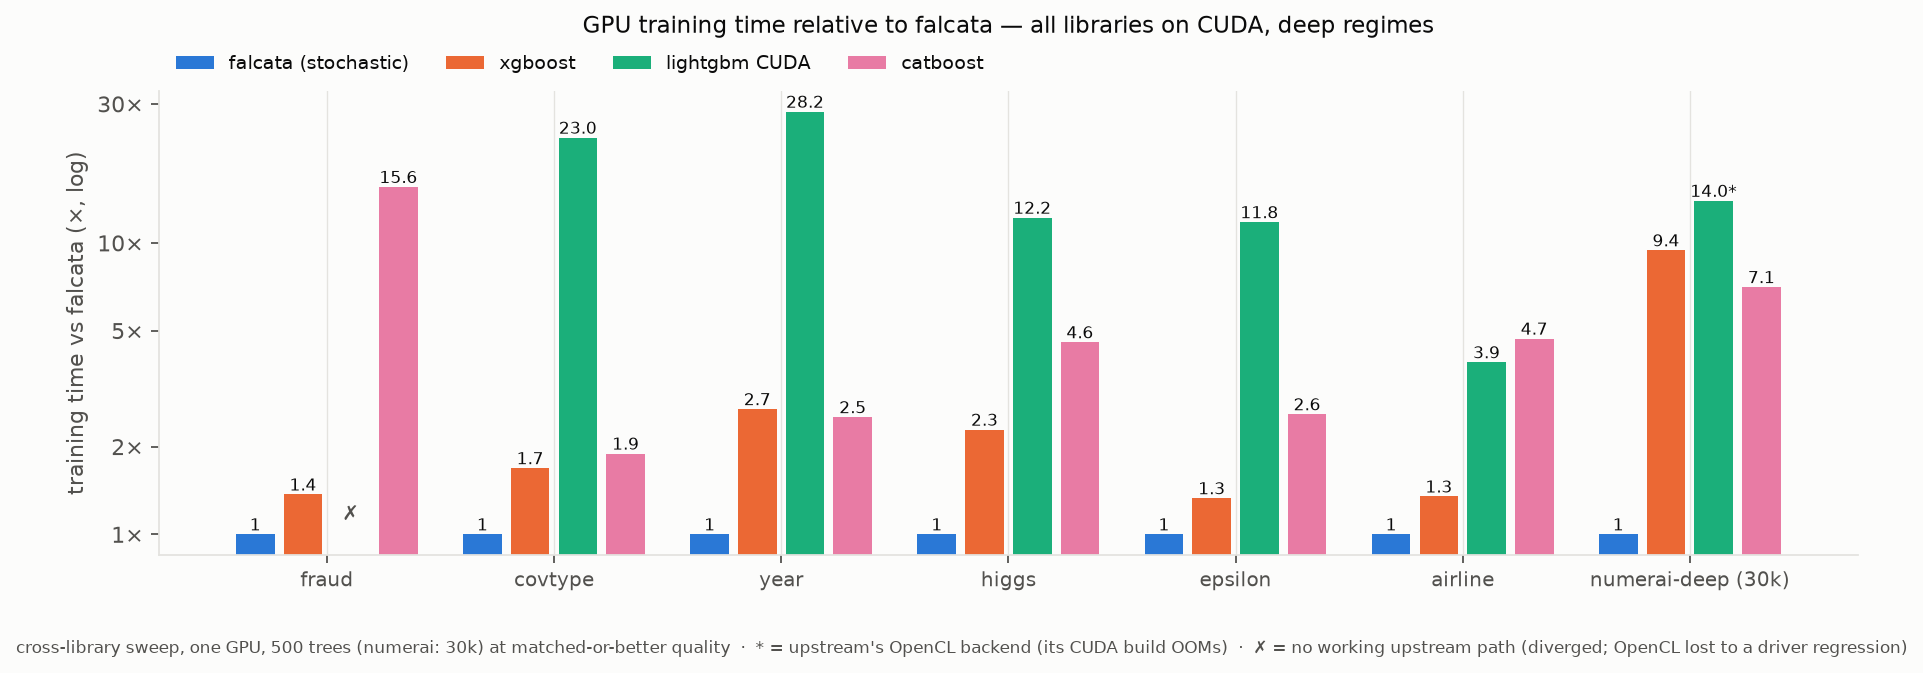
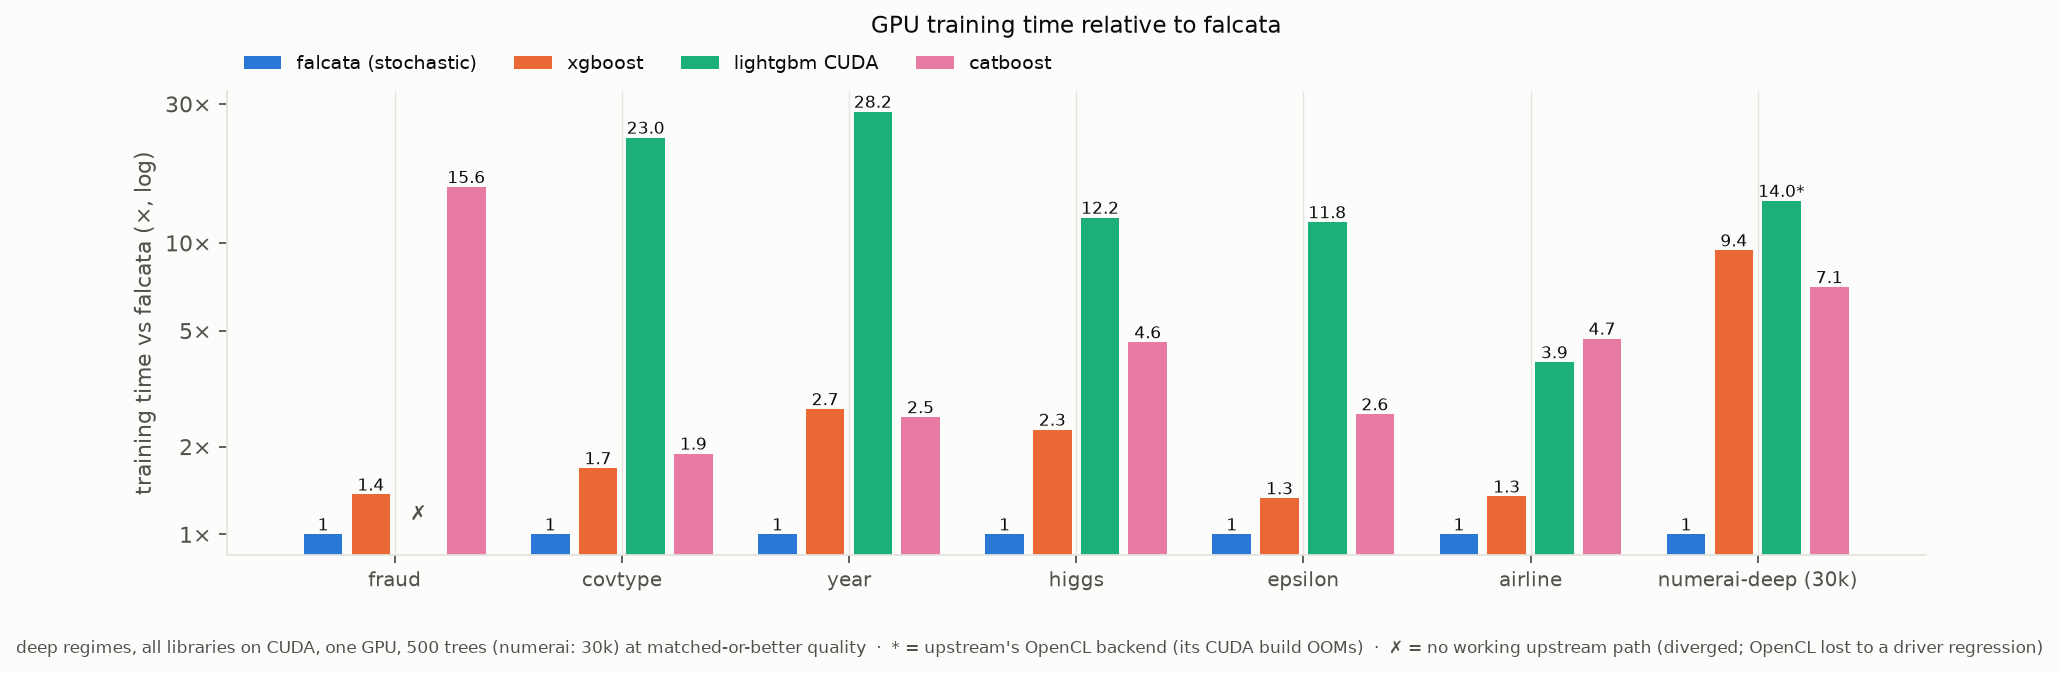
docs: plot titles name the plot, details move below it
Titles were carrying methodology, dataset shapes, footnote keys and reading
instructions, so each chart opened with a sentence instead of a name. Every
title is now the short thing the plot is; the qualifiers moved to a caption
line under the axes, where they were already the convention for a few plots.

  GPU training time relative to falcata — all libraries on CUDA, deep regimes
    -> GPU training time relative to falcata
  Throughput cost of turning the feature OFF (leave-one-out ablation) — larger = feature worth more
    -> What each hybrid-growth feature is worth
  Ingestion of the numerai matrix (6.8M rows × 3555 features, ~96 GB float32)
    -> Ingestion of the numerai matrix
  Peak GPU memory, deep regimes · * = upstream's OpenCL backend (its CUDA build OOMs)
    -> Peak GPU memory
  Time-to-quality (eval every 25 iters; cross-library sweep)
    -> Time-to-quality
  Selective grow-then-prune: level batching when the leaf budget binds
    -> Selective grow-then-prune
  quant_mode effect, measured on the cross-library sweep (deep regimes)
    -> Quantization modes  (subplots: Speed / Quality (+ is better))
  "<feature>: throughput cost of turning it OFF" -> "<feature>"

The gpu-memory caption is not just relocated: dropping it from the title would
have left the `*` on the numerai bar with nothing explaining it.

diff --git a/docs/perf-plots/generate.py b/docs/perf-plots/generate.py
@@ -255,17 +255,14 @@ def plot_cross_library():
     ax.minorticks_off()
     ax.set_xticks(list(x), [DS_LABEL.get(dr, dr[0]) for dr in DS_REGS], fontsize=9)
     ax.set_ylabel("training time vs falcata (×, log)")
-    ax.set_title(
-        "GPU training time relative to falcata — all libraries on CUDA, deep regimes",
-        fontsize=10.5,
-        pad=26,
-    )
+    ax.set_title("GPU training time relative to falcata", fontsize=10.5, pad=26)
     fig.text(
         0.5,
         -0.04,
-        "cross-library sweep, one GPU, 500 trees (numerai: 30k) at matched-or-better "
-        "quality  ·  * = upstream's OpenCL backend (its CUDA build OOMs)  ·  "
-        "✗ = no working upstream path (diverged; OpenCL lost to a driver regression)",
+        "deep regimes, all libraries on CUDA, one GPU, 500 trees (numerai: 30k) at "
+        "matched-or-better quality  ·  * = upstream's OpenCL backend (its CUDA build "
+        "OOMs)  ·  ✗ = no working upstream path (diverged; OpenCL lost to a driver "
+        "regression)",
         ha="center",
         va="top",
         fontsize=7.5,
@@ -335,7 +332,7 @@ def plot_quant_modes():
                 )
     ax1.set_xticks(list(x), labels, fontsize=8, rotation=20)
     ax1.set_ylabel("speedup vs no-quant (×)")
-    ax1.set_title("Quantized training: speed", fontsize=10)
+    ax1.set_title("Speed", fontsize=10)
     ax1.legend(fontsize=8, frameon=False)
     bar_ends(ax1)
     # quality: relative metric delta vs noquant, in % (sign = better/worse)
@@ -368,12 +365,17 @@ def plot_quant_modes():
     ax2.axhline(0, color=TEXT2, linewidth=0.8)
     ax2.set_xticks(list(x), labels, fontsize=8, rotation=20)
     ax2.set_ylabel("quality vs no-quant (%)")
-    ax2.set_title("Quantized training: quality delta (+ is better)", fontsize=10)
+    ax2.set_title("Quality (+ is better)", fontsize=10)
     bar_ends(ax2)
-    fig.suptitle(
+    fig.suptitle("Quantization modes", fontsize=11, y=1.03)
+    fig.text(
+        0.5,
+        -0.02,
         "quant_mode effect, measured on the cross-library sweep (deep regimes)",
-        fontsize=10,
-        y=1.03,
+        ha="center",
+        va="top",
+        fontsize=7.5,
+        color=TEXT2,
     )
     fig.tight_layout()
     fig.savefig(os.path.join(HERE, "quant_modes.png"), bbox_inches="tight")
@@ -412,9 +414,15 @@ def plot_construct():
     ax.invert_yaxis()
     ax.set_xlim(0, 64)
     ax.set_xlabel("time until training can start (s)")
-    ax.set_title(
-        "Ingestion of the numerai matrix (6.8M rows × 3555 features, ~96 GB float32)",
-        fontsize=10,
+    ax.set_title("Ingestion of the numerai matrix", fontsize=10)
+    fig.text(
+        0.5,
+        -0.06,
+        "6.8M rows × 3555 features, ~96 GB as float32",
+        ha="center",
+        va="top",
+        fontsize=7.5,
+        color=TEXT2,
     )
     ax.grid(axis="y", visible=False)
     fig.tight_layout()
@@ -455,10 +463,15 @@ def plot_hybrid_ablation():
         ax.set_title(title, fontsize=9.5)
         ax.margins(x=0.22)
         ax.grid(axis="y", visible=False)
-    fig.suptitle(
-        "Throughput cost of turning the feature OFF (leave-one-out ablation) — larger = feature worth more",
-        fontsize=10,
-        y=1.04,
+    fig.suptitle("What each hybrid-growth feature is worth", fontsize=11, y=1.04)
+    fig.text(
+        0.5,
+        -0.01,
+        "leave-one-out ablation: throughput cost of turning the feature off — larger = worth more",
+        ha="center",
+        va="top",
+        fontsize=7.5,
+        color=TEXT2,
     )
     fig.tight_layout()
     fig.savefig(os.path.join(HERE, "hybrid_ablation.png"), bbox_inches="tight")
@@ -488,10 +501,12 @@ def plot_single_feature(key, title, fname):
     ax.axvline(0, color=TEXT2, linewidth=0.8)
     ax.set_yticks(list(ys), [c for c, _ in vals], fontsize=9)
     ax.invert_yaxis()
-    ax.set_title(f"{title}: throughput cost of turning it OFF", fontsize=9.5)
+    ax.set_title(title, fontsize=10)
     xlbl = "Δ throughput when disabled (%)"
     if n_neutral:
-        xlbl += f"   —   free on the other {n_neutral} suite cells (within run noise, verified)"
+        xlbl += (
+            f"\nfree on the other {n_neutral} suite cells (within run noise, verified)"
+        )
     ax.set_xlabel(xlbl, fontsize=8.5)
     ax.margins(x=0.18)
     ax.grid(axis="y", visible=False)
@@ -615,10 +630,15 @@ def plot_selective_prune():
         color=TEXT2,
     )
 
-    fig.suptitle(
-        "Selective grow-then-prune: level batching when the leaf budget binds",
-        fontsize=10.5,
-        y=1.03,
+    fig.suptitle("Selective grow-then-prune", fontsize=11, y=1.03)
+    fig.text(
+        0.5,
+        0.0,
+        "how level batching works when the leaf budget binds",
+        ha="center",
+        va="top",
+        fontsize=7.5,
+        color=TEXT2,
     )
     fig.tight_layout()
     fig.savefig(os.path.join(HERE, "hybrid_selective_prune.png"), bbox_inches="tight")
@@ -808,7 +828,7 @@ def plot_curves():
         ax.set_ylim(bottom=ymin)
         ax.set_xlabel("wall time (s, log)")
         ax.set_ylabel("test AUC")
-        ax.set_title(f"{ds} deep (500 trees)", fontsize=10)
+        ax.set_title(ds, fontsize=10)
         handles, labels = ax.get_legend_handles_labels()
         order = sorted(range(len(labels)), key=lambda i: labels[i])
         ax.legend(
@@ -818,10 +838,15 @@ def plot_curves():
             frameon=False,
             loc="upper left",
         )
-    fig.suptitle(
-        "Time-to-quality (eval every 25 iters; cross-library sweep)",
-        fontsize=10,
-        y=1.04,
+    fig.suptitle("Time-to-quality", fontsize=11, y=1.04)
+    fig.text(
+        0.5,
+        0.995,
+        "deep regime, 500 trees, evaluated every 25 iterations",
+        ha="center",
+        va="top",
+        fontsize=7.5,
+        color=TEXT2,
     )
     fig.text(
         0.5,
@@ -930,10 +955,7 @@ def plot_memory():
                 ax.text(xx, v, note, ha="center", va="bottom", fontsize=9, color=TEXT)
     ax.set_xticks(list(x), [DS_LABEL.get(dr, dr[0]) for dr in drs], fontsize=9)
     ax.set_ylabel("GPU peak (GB)")
-    ax.set_title(
-        "Peak GPU memory, deep regimes  ·  * = upstream's OpenCL backend (its CUDA build OOMs)",
-        fontsize=10,
-    )
+    ax.set_title("Peak GPU memory", fontsize=10)
     # Below the axes, not floating inside them: the tallest bars (catboost on
     # airline/numerai) ran straight through a legend placed automatically.
     ax.legend(
@@ -942,6 +964,16 @@ def plot_memory():
         ncols=4,
         loc="upper center",
         bbox_to_anchor=(0.5, -0.16),
+    )
+    fig.text(
+        0.5,
+        -0.06,
+        "deep regimes  ·  * = upstream's OpenCL backend (its CUDA build OOMs), which "
+        "keeps the training data host-side",
+        ha="center",
+        va="top",
+        fontsize=7.5,
+        color=TEXT2,
     )
     bar_ends(ax)
     fig.tight_layout()
